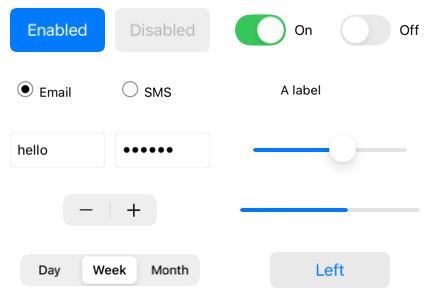
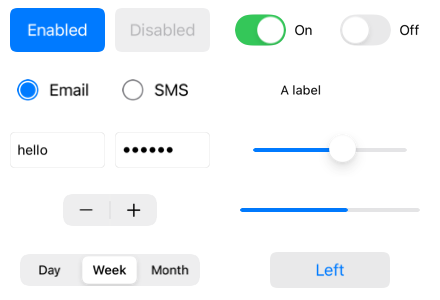
uxkit: iOS radio buttons are native, and iOS controls follow their models
UIKit has no radio control.  Its idiom is a button showing the system's circle symbols, so a
radio button on iOS is now a plain-configuration UIButton with circle / largecircle.fill.circle
(the accent colour when selected) and the title beside it.  The selection is the accessibility
trait rather than UIButton.selected, which draws a highlighted background.  A tap goes through the
value path: the neutral group selects the button and clears the others, then the action fires.

Fixing that showed an older gap: once a native control existed, the iOS driver pushed only its
frame, visibility and enabled state again, never its value.  An app's setChecked, setValue or
advancing progress did not show.  pushValue now sets the switch, radio, slider, stepper, progress
view, segmented control and popup from the model on every display (the popup only when its
selection moved, since selecting rebuilds its menu).

ios-radio (run_ios_radio.sh) checks the radios are native and show the selection, a tap through
UIKit's target-action selects one and fires it, and the app's later changes to a check box, slider,
stepper, progress bar and radio show in the native controls.  All 19 iOS gates pass; the iOS
radio portrait is regenerated.

Changed region(s): [[0.2659, 0.24, 0.4432, 0.36], [0.0295, 0.24, 0.2068, 0.36]]

diff --git a/frameworks/uxkit/libUXIos.m b/frameworks/uxkit/libUXIos.m
@@ -381,6 +381,12 @@ static UXValueTarget* valueTarget(void)
         v = (int)((UISegmentedControl*)c).selectedSegmentIndex;
     gValueChanged((int)(c.tag >> 8), (int)(c.tag & 0xFF), v);
     }
+/* a radio button tapped: it asks to be the selected one (1); the toolkit's group clears the others */
+- (void)tapped:(UIControl*)c
+    {
+    if (gValueChanged)
+        gValueChanged((int)(c.tag >> 8), (int)(c.tag & 0xFF), 1);
+    }
 @end
 static void wireValue(UIControl* c, int handle, int node)
     {
@@ -472,6 +478,86 @@ void ux_ios_set_switch(int handle, int node, int on)
             ((UISwitch*)sub).on = on != 0;
             return;
             }
+    }
+
+// A radio button.  UIKit has no radio control; its idiom is a button showing the system's own
+// circle symbols, empty and filled, with the title beside it (a plain-configuration UIButton).
+// A tap asks the toolkit to select it; the selection is pushed back by ux_ios_set_radio.
+static void radioLook(UIButton* b, int on)
+    {
+    /* not b.selected: a selected UIButton draws a highlighted background, which a radio has not.
+     * The state is the accessibility trait VoiceOver reads, and the filled symbol in the accent. */
+    UIImage* img = [UIImage systemImageNamed:on ? @"largecircle.fill.circle" : @"circle"];
+    img = [img imageWithTintColor:on ? UIColor.systemBlueColor : UIColor.secondaryLabelColor
+                    renderingMode:UIImageRenderingModeAlwaysOriginal];
+    if (@available(iOS 15.0, *))
+        {
+        UIButtonConfiguration* cfg = b.configuration ?: [UIButtonConfiguration plainButtonConfiguration];
+        cfg.image = img;
+        b.configuration = cfg;
+        }
+    else
+        [b setImage:img forState:UIControlStateNormal];
+    b.accessibilityTraits = on ? (UIAccessibilityTraitButton | UIAccessibilityTraitSelected) : UIAccessibilityTraitButton;
+    }
+static int radioOn(UIButton* b)
+    {
+    return (b.accessibilityTraits & UIAccessibilityTraitSelected) ? 1 : 0;
+    }
+void ux_ios_make_radio(int handle, int node, int x, int y, int w, int h, const char* title, int on)
+    {
+    UIButton* b = [UIButton buttonWithType:UIButtonTypeSystem];
+    if (@available(iOS 15.0, *))
+        {
+        UIButtonConfiguration* cfg = [UIButtonConfiguration plainButtonConfiguration];
+        cfg.title = [NSString stringWithUTF8String:title];
+        cfg.imagePadding = 8;
+        cfg.contentInsets = NSDirectionalEdgeInsetsMake(0, 0, 0, 0);
+        cfg.baseForegroundColor = UIColor.labelColor;
+        b.configuration = cfg;
+        }
+    else
+        [b setTitle:[NSString stringWithUTF8String:title] forState:UIControlStateNormal];
+    b.contentHorizontalAlignment = UIControlContentHorizontalAlignmentLeading;
+    b.tintColor = nil;
+    b.frame = CGRectMake(x, y, w, h);
+    b.tag = (handle << 8) | node;
+    radioLook(b, on);
+    [b addTarget:valueTarget() action:@selector(tapped:) forControlEvents:UIControlEventTouchUpInside];
+    [gWin[handle] addSubview:b];
+    gCtl[handle][node] = b;
+    }
+void ux_ios_set_radio(int handle, int node, int on)
+    {
+    UIView* c = gCtl[handle][node];
+    if ([c isKindOfClass:UIButton.class] && radioOn((UIButton*)c) != (on != 0))
+        radioLook((UIButton*)c, on);
+    }
+// Tests: whether a node is a native radio button, and whether it shows as selected (-1: not one)
+int ux_ios_test_radio_state(int handle, int node)
+    {
+    UIView* c = gCtl[handle][node];
+    if (![c isKindOfClass:UIButton.class] || [(UIButton*)c actionsForTarget:valueTarget() forControlEvent:UIControlEventTouchUpInside].count == 0)
+        return -1;
+    return radioOn((UIButton*)c);
+    }
+// Tests: a native control's value as UIKit holds it -- a switch 0/1, a slider's or stepper's value,
+// a progress view in permille, a segmented control's selected index (-9999: none)
+int ux_ios_test_native_value(int handle, int node)
+    {
+    UIView* c = gCtl[handle][node];
+    for (UIView* sub in c.subviews)
+        if ([sub isKindOfClass:UISwitch.class])
+            return ((UISwitch*)sub).on ? 1 : 0;
+    if ([c isKindOfClass:UISlider.class])
+        return (int)lroundf(((UISlider*)c).value);
+    if ([c isKindOfClass:UIStepper.class])
+        return (int)lround(((UIStepper*)c).value);
+    if ([c isKindOfClass:UIProgressView.class])
+        return (int)lroundf(((UIProgressView*)c).progress * 1000.0f);
+    if ([c isKindOfClass:UISegmentedControl.class])
+        return (int)((UISegmentedControl*)c).selectedSegmentIndex;
+    return -9999;
     }
 
 void ux_ios_make_slider(int handle, int node, int x, int y, int w, int h,
